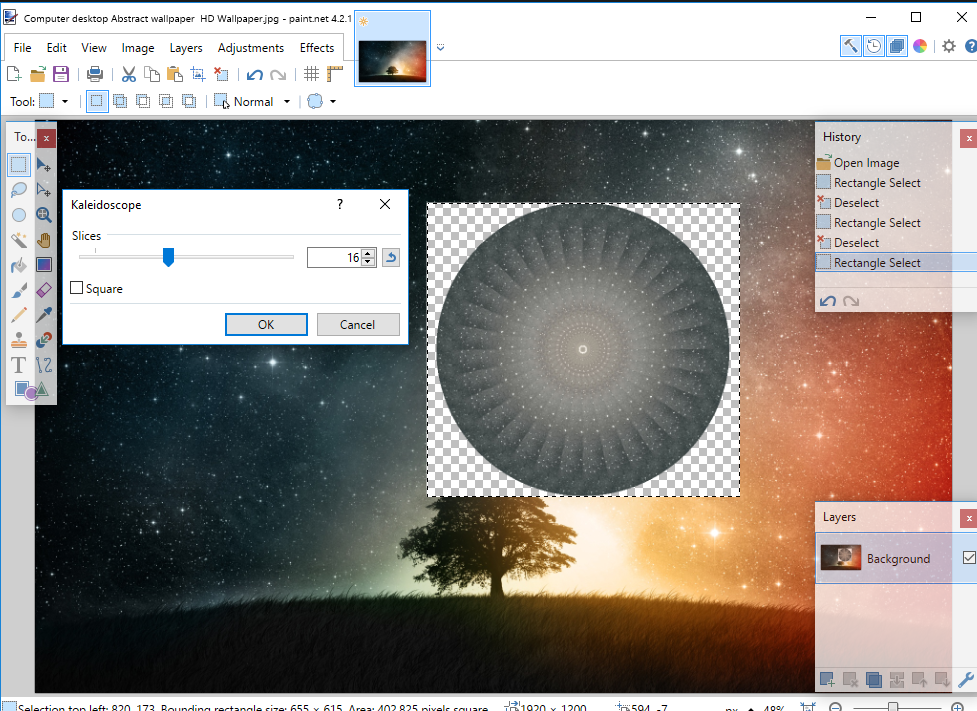
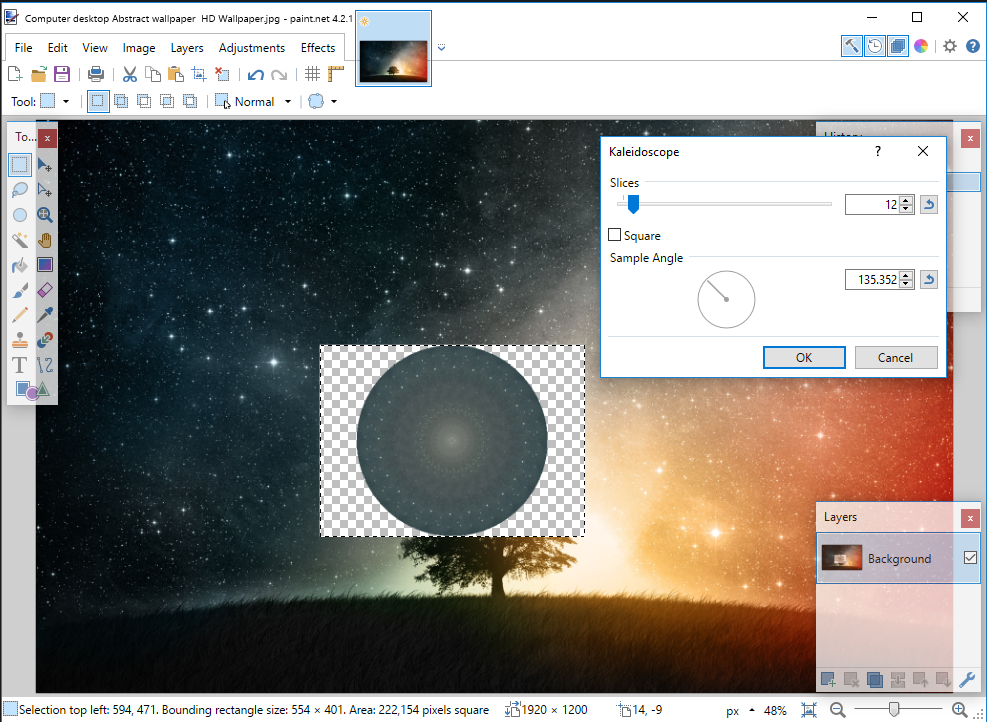
Uploaded dll after branch merge; updated readme

diff --git a/Plugins/Kaleidoscope/kaleidoscope.cs b/Plugins/Kaleidoscope/kaleidoscope.cs
@@ -1,5 +1,5 @@
 // Name: Kaleidoscope
-// Submenu: Zaya's tools
+// Submenu: Zaya's Tools
 // Author: Zaya
 // Title:
 // Version: 1.1
@@ -8,7 +8,7 @@
 // URL:
 // Help:
 #region UICode
-IntSliderControl slices = 4; // [2,36] Slices
+IntSliderControl slices = 4; // [2,180] Slices
 CheckboxControl square = false; // [0,1] Square
 AngleControl offset = 45; // [0,360] Sample Angle 
 #endregion

diff --git a/Plugins/Kaleidoscope/README.md b/Plugins/Kaleidoscope/README.md
@@ -1,6 +1,6 @@
 # Kaleidoscope
 As of right now, this tool will make a mandala-like radial symmetry pattern from any selection based on the largest possible radius that can fit into that selection. It works surprisingly well (if a little slow)
 
-In the future, I will add an option to change the section of the circle being used as the reference, but for right now, it is always the arc between 90 degrees plus the angle input by the user. 
+User can select between 2 and 180 slices per half of the circle (4-360) and may adjust the angle that the slices repeat using the angle slider. 
 
 ![Example Image](example.png)
